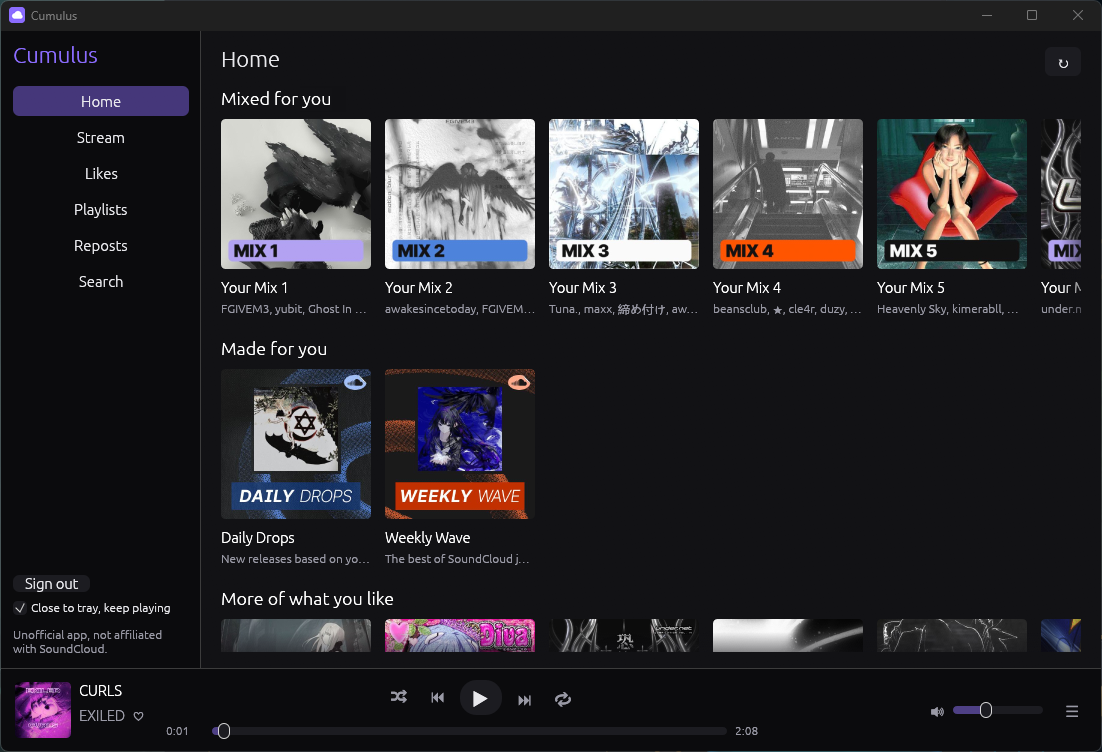
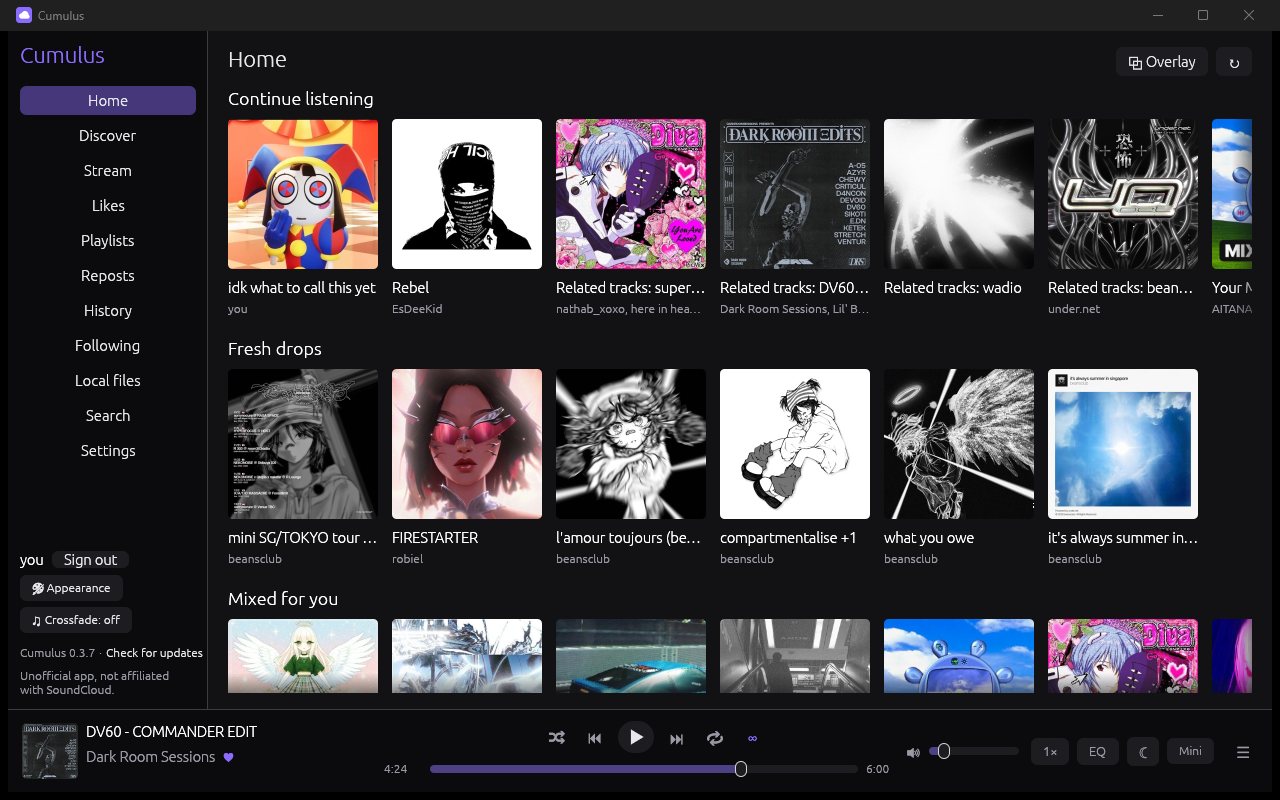
New README screenshots of the 0.3.7 features; debug-only anonymous mode for taking them

diff --git a/src/ui/mod.rs b/src/ui/mod.rs
@@ -3,6 +3,7 @@ mod fonts;
 mod hide;
 pub use hide::BlockedArtist;
 pub use theme::CustomTheme;
+mod anon;
 mod home;
 mod hotkeys;
 mod icon;
@@ -582,6 +583,18 @@ impl App {
             app.obs_overlay_on = true;
             app.obs_text_on = true;
         }
+        // Debug builds: CUMULUS_DEV_CUSTOM=<gallery theme> / CUMULUS_DEV_WALL=artwork, unsaved.
+        #[cfg(debug_assertions)]
+        if let Ok(name) = std::env::var("CUMULUS_DEV_CUSTOM") {
+            if let Some(t) = theme::gallery().into_iter().find(|t| t.name == name) {
+                theme::set_custom(&app.ctx, &t);
+                app.looks.custom = Some(t);
+            }
+        }
+        #[cfg(debug_assertions)]
+        if let Ok(mode) = std::env::var("CUMULUS_DEV_WALL") {
+            app.looks.wall_mode = looks::WallMode::from_key(&mode);
+        }
         app.player.set_visualizer(app.viz_style != visualizer::Style::Off);
         if app.obs_overlay_on {
             app.set_obs_overlay(true);
@@ -817,7 +830,10 @@ impl App {
         }
     }
 
-    fn handle(&mut self, msg: Msg) {
+    fn handle(&mut self, mut msg: Msg) {
+        if cfg!(debug_assertions) {
+            anonymize(&mut msg);
+        }
         match msg {
             Msg::Session(Ok(Some(user))) => {
                 self.me = user.id;
@@ -1828,6 +1844,19 @@ impl eframe::App for App {
         if matches!(self.screen, Screen::Taken) {
             self.screen = screen;
         }
+        // Debug builds: CUMULUS_DEV_ARTIST=<id>:<name> opens an artist page once.
+        #[cfg(debug_assertions)]
+        if let Some((id, name)) = std::env::var("CUMULUS_DEV_ARTIST").ok().and_then(|s| {
+            let (id, name) = s.split_once(':')?;
+            Some((id.parse::<u64>().ok()?, name.to_string()))
+        }) {
+            if matches!(self.screen, Screen::SignedIn(_)) {
+                // SAFETY: only the UI thread reads this dev-only variable.
+                unsafe { std::env::remove_var("CUMULUS_DEV_ARTIST") };
+                let url = format!("https://soundcloud.com/{name}");
+                self.open_artist(ArtistInfo { id, username: name, permalink_url: url, avatar_url: None });
+            }
+        }
         // Debug builds: CUMULUS_DEV_TRACK=<id> opens that track's page once.
         #[cfg(debug_assertions)]
         if let Some(id) = std::env::var("CUMULUS_DEV_TRACK").ok().and_then(|s| s.parse::<u64>().ok()) {
@@ -1860,4 +1889,49 @@ fn centered(ui: &mut egui::Ui, add: impl FnOnce(&mut egui::Ui)) {
         ui.add_space((ui.available_height() * 0.28).max(24.0));
         add(ui);
     });
+}
+
+/// Debug builds with CUMULUS_DEV_ANON=1: the user's own name becomes "you"
+/// in everything that arrives, for screenshots (see `anon`).
+fn anonymize(msg: &mut Msg) {
+    use crate::api::models::{HomeItem, PlaylistEntry};
+    match msg {
+        Msg::Session(Ok(Some(user))) => anon::start(user),
+        Msg::Feed { result: Ok(page), .. } => {
+            for r in &mut page.rows {
+                match r {
+                    library::Row::Track { track, .. } => anon::track(track),
+                    library::Row::Playlist { playlist, .. } => anon::playlist(playlist),
+                    library::Row::User(u) => anon::user(u),
+                }
+            }
+        }
+        Msg::Home { result: Ok(sections), .. } => anon::sections(sections),
+        Msg::History(Ok(tracks)) | Msg::QueueTracks(tracks) => tracks.iter_mut().for_each(anon::track),
+        Msg::HomeExtras { continue_items, fresh } => {
+            fresh.iter_mut().for_each(anon::track);
+            for it in continue_items {
+                if let HomeItem::Playlist(p) = it {
+                    anon::name(&mut p.user.username);
+                }
+            }
+        }
+        Msg::Playlist { result: Ok(p), .. } => {
+            anon::name(&mut p.user.username);
+            for e in &mut p.tracks {
+                if let PlaylistEntry::Full(t) = e {
+                    anon::name(&mut t.user.username);
+                }
+            }
+        }
+        Msg::Tracks { result: Ok(map), .. } => map.values_mut().for_each(|t| anon::name(&mut t.user.username)),
+        Msg::TrackPage { part, .. } => match part {
+            track_page::Part::Details(Ok(t)) => anon::name(&mut t.user.username),
+            track_page::Part::Related(Ok(v)) => v.iter_mut().for_each(|t| anon::name(&mut t.user.username)),
+            track_page::Part::Albums(Ok(v)) => v.iter_mut().for_each(|p| anon::name(&mut p.user.username)),
+            track_page::Part::Playlists { result: Ok((v, _)), .. } => v.iter_mut().for_each(|p| anon::name(&mut p.user.username)),
+            _ => {}
+        },
+        _ => {}
+    }
 }

diff --git a/src/ui/anon.rs b/src/ui/anon.rs
@@ -1,0 +1,86 @@
+//! Debug builds only: CUMULUS_DEV_ANON=1 shows "you" instead of the
+//! signed-in user's name everywhere, for screenshots. In release builds every
+//! function here does nothing.
+
+use std::sync::{Arc, RwLock};
+
+use crate::api::models::{Playlist, Selection, Track, User};
+
+static REAL_NAME: RwLock<Option<String>> = RwLock::new(None);
+const SHOWN: &str = "you";
+
+/// Turns anonymous mode on for this user (if asked for).
+pub fn start(user: &mut User) {
+    if cfg!(debug_assertions) && std::env::var_os("CUMULUS_DEV_ANON").is_some() {
+        if let Ok(mut n) = REAL_NAME.write() {
+            *n = Some(user.username.clone());
+        }
+        user.username = SHOWN.into();
+        user.full_name = None;
+        user.permalink_url = "https://soundcloud.com/".into();
+    }
+}
+
+fn real() -> Option<String> {
+    if !cfg!(debug_assertions) {
+        return None;
+    }
+    REAL_NAME.read().ok().and_then(|n| n.clone())
+}
+
+pub fn text(s: &mut String) {
+    if let Some(name) = real() {
+        if s.contains(&name) {
+            *s = s.replace(&name, SHOWN);
+        }
+    }
+}
+
+pub fn track(t: &mut Arc<Track>) {
+    if let Some(name) = real() {
+        if t.user.username == name {
+            Arc::make_mut(t).user.username = SHOWN.into();
+        }
+    }
+}
+
+pub fn playlist(p: &mut Arc<Playlist>) {
+    if let Some(name) = real() {
+        if p.user.username == name {
+            Arc::make_mut(p).user.username = SHOWN.into();
+        }
+    }
+}
+
+pub fn user(u: &mut Arc<User>) {
+    if let Some(name) = real() {
+        if u.username == name {
+            Arc::make_mut(u).username = SHOWN.into();
+        }
+    }
+}
+
+pub fn sections(sections: &mut [Selection]) {
+    if real().is_none() {
+        return;
+    }
+    for s in sections {
+        text(&mut s.title);
+        for item in &mut s.items.collection {
+            if let crate::api::models::HomeItem::Playlist(p) = item {
+                if Some(&p.user.username) == real().as_ref() {
+                    p.user.username = SHOWN.into();
+                }
+            }
+        }
+    }
+}
+
+/// A name field: replaced when it's the user's own.
+pub fn name(s: &mut String) {
+    if let Some(n) = real() {
+        if *s == n {
+            *s = SHOWN.into();
+        }
+    }
+}

diff --git a/README.md b/README.md
@@ -3,7 +3,17 @@
 A lightweight native desktop player for your SoundCloud library: Rust + egui,
 native audio, no bundled browser. **Unofficial; not affiliated with SoundCloud.**
 
-![Cumulus: the Home view with your mixes, and the player bar](assets/screenshot.png)
+![Cumulus: Home with Continue listening, Fresh drops and your mixes](assets/screenshot.png)
+
+| | |
+|---|---|
+| ![A track page with stats, buttons and related tracks](assets/screenshots/track-page.png) | ![An artist page with Tracks, Popular, Albums, Playlists, Reposts, Related artists and About tabs](assets/screenshots/artist-page.png) |
+| **Track pages:** stats, related tracks, and the playlists a track is in | **Artist pages** with tabs, bio and links |
+| ![Discover by genre, in the Synthwave theme](assets/screenshots/discover-synthwave.png) | ![Settings with the theme gallery, in the Nord theme](assets/screenshots/settings-themes.png) |
+| **Discover:** trending, or browse 24 genres (Synthwave theme) | **Settings:** theme gallery, scale, fonts, layout, wallpapers (Nord theme) |
+
+![Likes playing, with the cover as wallpaper and the visualizer behind the player bar](assets/screenshots/wallpaper-visualizer.png)
+*The playing song's cover as wallpaper, with the visualizer behind the player bar.*
 
 ## Install (Windows 10 / 11)
 
